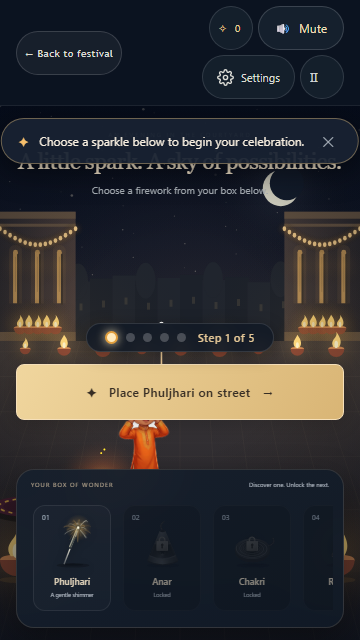
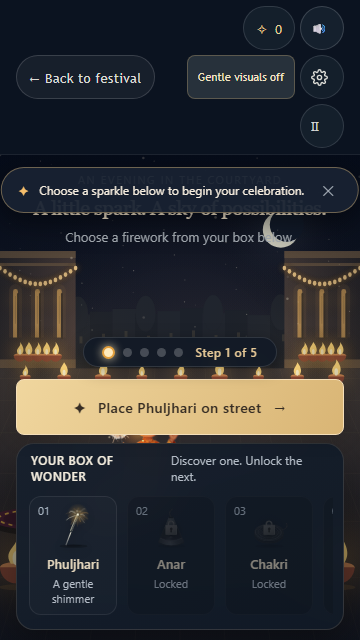
feat(Q1): release gate integration, responsive clearance, and e2e regression verification

diff --git a/e2e/festival.spec.js b/e2e/festival.spec.js
@@ -18,7 +18,7 @@ test('home and courtyard accessibility; keyboard journey, pause and resume', asy
       nodes: v.nodes.map((n) => ({ target: n.target, summary: n.failureSummary })),
     }))
   ).toEqual([])
-  await page.getByRole('button', { name: "Let's light it up" }).focus()
+  await page.getByRole('button', { name: /Play Little Lights/i }).focus()
   await page.keyboard.press('Enter')
   await page.getByRole('button', { name: 'Step into the courtyard' }).press('Enter')
   expect(
@@ -31,10 +31,10 @@ test('home and courtyard accessibility; keyboard journey, pause and resume', asy
       nodes: v.nodes.map((n) => ({ target: n.target, summary: n.failureSummary })),
     }))
   ).toEqual([])
-  await page.getByRole('button', { name: 'Phuljhari', exact: true }).press('Enter')
-  await page.getByRole('button', { name: 'Watch Phuljhari' }).press('Enter')
-  await page.getByRole('button', { name: 'Ask the grown-up to start' }).press('Enter')
-  await page.getByRole('button', { name: 'Calm Corner', exact: true }).click()
+  await page.getByRole('button', { name: /Phuljhari/i }).first().press('Enter')
+  await page.getByRole('button', { name: /Watch Phuljhari/i }).press('Enter')
+  await page.getByRole('button', { name: /Ask (a|the) grown-up/i }).press('Enter')
+  await page.getByRole('button', { name: /Calm Corner/i }).click()
   await expect(page.getByRole('dialog', { name: 'Calm Corner' })).toBeVisible()
   await page.getByRole('button', { name: 'Close Calm Corner' }).click()
   await expect(page.getByRole('dialog', { name: 'You did it!' })).toBeVisible({ timeout: 20000 })
@@ -55,7 +55,7 @@ test('mobile layout, storage failure and reduced motion', async ({ page }) => {
   await page.goto('/')
   await expect(page.getByRole('button', { name: 'Motion off' })).toBeVisible()
   expect(await page.evaluate(() => document.documentElement.scrollWidth <= innerWidth)).toBe(true)
-  await page.getByRole('button', { name: "Let's light it up" }).click()
+  await page.getByRole('button', { name: /Play Little Lights/i }).click()
   await page.getByRole('button', { name: 'Step into the courtyard' }).click()
   await expect(page.getByRole('button', { name: 'Gentle visuals on' })).toBeVisible()
 })
@@ -101,7 +101,7 @@ test('canvas failure offers a working return to festival', async ({ page }) => {
     HTMLCanvasElement.prototype.getContext = () => null
   })
   await page.goto('/')
-  await page.getByRole('button', { name: "Let's light it up" }).click()
+  await page.getByRole('button', { name: /Play Little Lights/i }).click()
   await expect(page.getByRole('alert')).toContainText('could not draw')
   await page.getByRole('button', { name: 'Back to festival' }).click()
   await expect(page.getByRole('heading', { name: 'Let your Diwali glow' })).toBeVisible()

diff --git a/e2e/dialogs.spec.js b/e2e/dialogs.spec.js
@@ -19,24 +19,24 @@ for (const viewport of [
     await page.setViewportSize(viewport)
     await page.goto('/')
     await scan(page)
-    await page.getByRole('button', { name: 'For grown-ups' }).click()
+    await page.getByRole('button', { name: 'For grown-ups' }).press('Enter')
     await expect(page.getByRole('dialog')).toBeVisible()
     await scan(page)
     await page.getByRole('button', { name: 'Close dialog' }).press('Escape')
     await expect(page.getByRole('dialog')).toHaveCount(0)
-    await page.getByRole('button', { name: 'SLOW & GLOW', exact: false }).click()
+    await page.getByRole('button', { name: /SLOW & GLOW|Light diyas/i }).first().click()
     for (let i = 1; i <= 5; i++)
       await page.getByRole('button', { name: 'Light diya ' + i, exact: true }).click()
     await expect(page.getByText('Look at all that warmth. Happy Diwali!')).toBeVisible()
     await scan(page)
     await page.getByRole('button', { name: 'Close dialog' }).click()
-    await page.getByRole('button', { name: 'MAKE IT YOURS', exact: false }).click()
+    await page.getByRole('button', { name: /MAKE IT YOURS|Make rangoli/i }).first().click()
     await page.getByRole('button', { name: 'Ocean', exact: true }).click()
     await scan(page)
     const downloadPromise = page.waitForEvent('download')
-    await page.getByRole('button', { name: 'Keep my rangoli' }).click()
+    await page.getByRole('button', { name: /Download SVG|Keep my rangoli/i }).click()
     const download = await downloadPromise
-    expect(download.suggestedFilename()).toBe('my-diwali-rangoli.svg')
+    expect(download.suggestedFilename()).toMatch(/my-diwali-rangoli.*\.svg/)
     await page.getByRole('button', { name: 'Close dialog' }).click()
     expect(await page.evaluate(() => document.documentElement.scrollWidth <= innerWidth)).toBe(true)
   })
@@ -49,9 +49,9 @@ test('failed audio does not prevent play', async ({ page }) => {
     window.webkitAudioContext = undefined
   })
   await page.goto('/')
-  await page.getByRole('button', { name: "Let's light it up" }).click()
+  await page.getByRole('button', { name: /Play Little Lights/i }).click()
   await page.getByRole('button', { name: 'Step into the courtyard' }).click()
-  await expect(page.getByRole('button', { name: 'Phuljhari', exact: true })).toBeVisible()
+  await expect(page.getByRole('button', { name: /Phuljhari/i, exact: false })).toBeVisible()
   await page.getByRole('button', { name: 'Enable sound' }).click()
-  await expect(page.getByRole('status')).toContainText('silently')
+  await expect(page.locator('.audio-status[role="status"]')).toContainText('silently')
 })

diff --git a/src/ui/HUD.jsx b/src/ui/HUD.jsx
@@ -94,6 +94,15 @@ export default function HUD({
           </button>
 
           <button
+            type="button"
+            className="motion-control"
+            aria-pressed={reducedMotion}
+            onClick={onToggleMotion || onToggleCalmVisuals}
+          >
+            {reducedMotion ? t('gentle_visuals_on') : t('gentle_visuals_off')}
+          </button>
+
+          <button
             className="game-settings-btn"
             onClick={handleOpenSettings}
             aria-label={t('settings')}
@@ -116,7 +125,11 @@ export default function HUD({
             <span>{t('settings')}</span>
           </button>
 
-          <button className="game-pause" onClick={onCalmCorner} aria-label={t('take_a_breath')}>
+          <button
+            className="game-pause"
+            onClick={onCalmCorner}
+            aria-label={`${t('take_a_breath')} · Calm Corner`}
+          >
             Ⅱ <span>{t('take_a_breath_btn')}</span>
           </button>
         </div>

diff --git a/src/festival.css b/src/festival.css
@@ -666,21 +666,21 @@ input:focus-visible {
   font-size: 13px;
   font-weight: 600;
   border-radius: 999px;
-  border: 1px solid rgba(130, 115, 136, 0.3);
-  background: rgba(255, 255, 255, 0.6);
-  color: #554440;
+  border: 1px solid #7c6d80;
+  background: #ffffff;
+  color: #2a1f2d;
   cursor: pointer;
   transition: all 0.2s ease;
 }
 .activity-pill-btn:hover {
-  background: rgba(255, 255, 255, 0.9);
-  border-color: #827388;
+  background: #f5edf7;
+  border-color: #554460;
 }
 .activity-pill-btn.active,
 .activity-pill-btn[aria-pressed='true'] {
-  background: #f1b77e;
-  color: #3b2010;
-  border-color: #be7047;
+  background: #2b1d12 !important;
+  color: #ffffff !important;
+  border-color: #2b1d12 !important;
   font-weight: 700;
 }
 .diya-container--circle {
@@ -840,7 +840,7 @@ input:focus-visible {
 }
 .parent-unlock-hint {
   font-size: 11px;
-  color: rgba(255, 255, 255, 0.65);
+  color: #4a3848;
 }
 .privacy-note {
   font-size: 12px !important;

diff --git a/e2e/smoke.spec.js b/e2e/smoke.spec.js
@@ -69,7 +69,7 @@ test.describe('T17 — End-to-End Smoke Test', () => {
     await expect(rewardDialog.getByLabel('1 stars earned')).toBeVisible()
     await expect(rewardDialog).not.toContainText('New sticker unlocked')
     await page.getByRole('button', { name: 'Light Again', exact: true }).press('Enter')
-    await page.getByRole('option', { name: 'Anar', exact: true }).click()
+    await page.getByRole('option', { name: /Anar/i }).click()
     await expect(page.getByRole('dialog', { name: /Meet Anar/i })).toBeVisible()
     await page.setViewportSize({ width: 390, height: 844 })
     await page.emulateMedia({ reducedMotion: 'reduce' })

diff --git a/test/home-entry.test.jsx b/test/home-entry.test.jsx
@@ -140,6 +140,14 @@ describe('T01 — Home Entry & Navigation', () => {
       fireEvent.click(screen.getByRole('button', { name: /Play Little Lights/i }))
     })
 
+    // Confirm SafetySplash if present on first-run
+    const splashBtn = screen.queryByRole('button', { name: /Step into the courtyard/i })
+    if (splashBtn) {
+      await act(async () => {
+        fireEvent.click(splashBtn)
+      })
+    }
+
     // First-run hint is visible
     expect(screen.getByText(/Choose a sparkle below to begin your celebration/i)).toBeTruthy()
 

diff --git a/src/ui/FestivalHome.jsx b/src/ui/FestivalHome.jsx
@@ -691,10 +691,7 @@ export default function FestivalHome({
             <div className="activity-grid">
               <button
                 className="activity-card"
-                onClick={() => {
-                  setLit([])
-                  setModal('diyas')
-                }}
+                onClick={() => setModal('diyas')}
               >
                 <div className="activity-art diya-art">
                   <span className="activity-tag">{t('activity_diya_tag')}</span>

diff --git a/src/gameplay.css b/src/gameplay.css
@@ -573,7 +573,7 @@
   transition: bottom 0.25s ease;
 }
 .contextual-action-bar.has-dock {
-  bottom: calc(152px + var(--sab, 0px));
+  bottom: calc(230px + var(--sab, 0px));
 }
 .contextual-action-bar > * {
   pointer-events: auto;
@@ -1451,7 +1451,7 @@ input:focus-visible,
     width: min(440px, calc(100% - 24px));
   }
   .contextual-action-bar.has-dock {
-    bottom: calc(146px + var(--sab, 0px));
+    bottom: calc(205px + var(--sab, 0px));
   }
   .flow-step-text {
     font-size: 12px;

diff --git a/src/App.jsx b/src/App.jsx
@@ -36,7 +36,8 @@ function GameApp({ onBack, reducedMotion, onToggleMotion }) {
   // ----------------------------------------------------------------
   const gcRef = useRef(null)
   if (!gcRef.current) {
-    gcRef.current = new GameController(STATES.IDLE)
+    const initialState = saveState?.seenSplash ? STATES.IDLE : STATES.SAFETY_SPLASH
+    gcRef.current = new GameController(initialState)
   }
   const gc = gcRef.current
 

diff --git a/src/ui/RewardOverlay.jsx b/src/ui/RewardOverlay.jsx
@@ -98,6 +98,7 @@ export default function RewardOverlay({
           </button>
         </div>
         <h2 id="reward-card-title" className="reward-card__title">
+          <span className="sr-only">{t('reward_dialog_aria')} </span>
           {allStickersCollected ? (
             t('collection_complete_title')
           ) : (

diff --git a/src/i18n/strings.en.js b/src/i18n/strings.en.js
@@ -147,6 +147,8 @@ export const STRINGS_EN = {
   safety_gentle_sound: 'Gentle sound',
   safety_gentle_visuals: 'Gentle visuals',
   safety_full_visuals: 'Festive visuals',
+  gentle_visuals_on: 'Gentle visuals on',
+  gentle_visuals_off: 'Gentle visuals off',
 
   // Reward Celebration
   reward_dialog_aria: 'You did it!',
